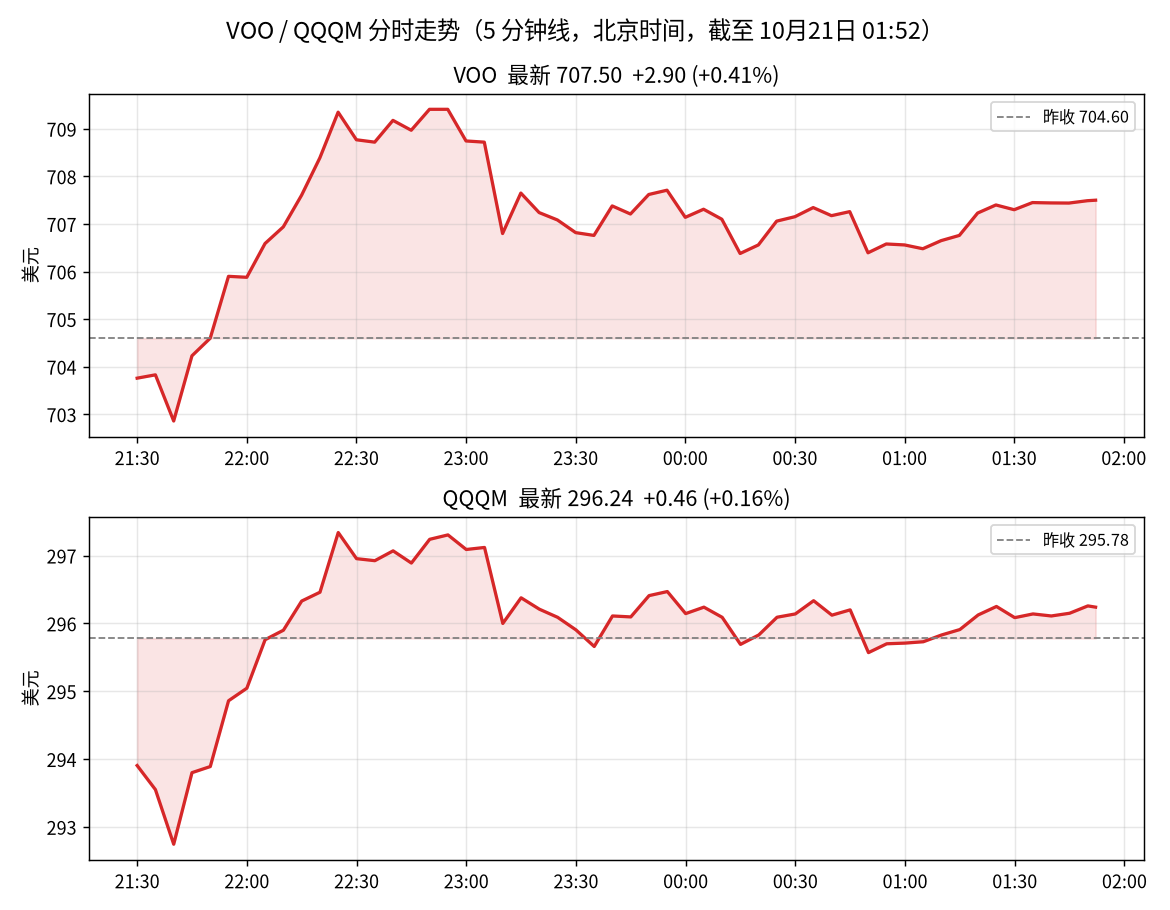
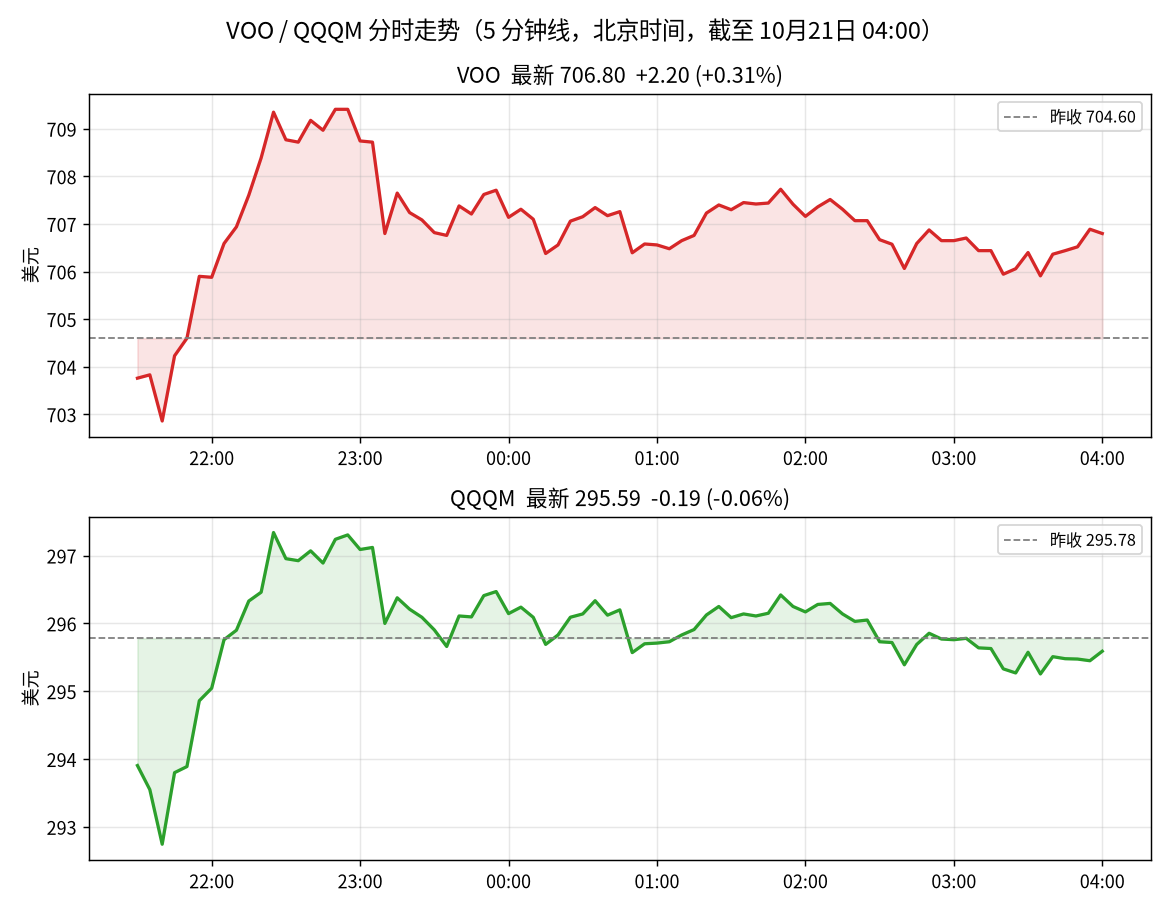
早报 2026-10-21

diff --git a/index.html b/index.html
@@ -5,49 +5,67 @@
 <link rel="stylesheet" href="style.css">
 </head><body>
 <header><a href="index.html">美股早报</a><nav><a href="index.html">最新</a><a href="archive.html">往期</a></nav></header>
-<main><p class="meta">最新一期：2026-10-21 · <a href="briefs/2026-10-21.html">固定链接</a></p><article class="card"><p><strong>美股早报（样版）· 北京时间 10月21日 01:52</strong></p>
-<p>美东 10月20日（周二）仍在交易中，以下“盘中”数据截至北京时间 01:52（罗素2000、VIX 截至 01:37），涨跌均对比 10月19日收盘。</p>
-<p><strong>大盘（盘中）</strong></p>
+<main><p class="meta">最新一期：2026-10-21 · <a href="briefs/2026-10-21.html">固定链接</a></p><article class="card"><p><strong>美股市场早报 · 2026年10月20日收盘</strong></p>
+<p>北京时间 2026年10月21日（周三）清晨。美东 10月20日（周二）正常交易、已收盘。以下为收盘数据（Yahoo Finance），非休市。美元指数、黄金期货仍显示盘中，改用各自最近收盘；WTI 连续合约刚换月，Yahoo 未给出可靠 last_close，油价另据公开报道标注。</p>
+<p><strong>大盘</strong></p>
 <ul>
-<li>标普500 7722.87，<span class="up">+0.42%</span></li>
-<li>纳斯达克100 29578.08，<span class="up">+0.17%</span></li>
-<li>道琼斯 52514.01，<span class="up">+1.05%</span>（<span class="up">+547.98 点</span>）</li>
-<li>罗素2000 2774.45，<span class="up">+1.69%</span></li>
-<li>VIX 恐慌指数 17.48，<span class="down">-5.21%</span></li>
-<li>10年期美债收益率 5.117%，<span class="down">-1.9 个基点</span></li>
-<li>美元指数 101.72，<span class="down">-0.25%</span></li>
-<li>黄金期货 4140.20 美元，<span class="down">-0.48%</span></li>
-<li>WTI 原油（12月合约）97.95 美元，<span class="down">-0.60%</span></li>
+<li>标普500：7712.57（<span class="up">+21.84</span>，<span class="up">+0.28%</span>）；近5个交易日 <span class="down">-1.19%</span></li>
+<li>纳斯达克100：29490.28（<span class="down">-39.07</span>，<span class="down">-0.13%</span>）；近5日 <span class="down">-3.53%</span></li>
+<li>道琼斯：52495.88（<span class="up">+529.85</span>，<span class="up">+1.02%</span>）；近5日 <span class="up">+1.60%</span></li>
+<li>罗素2000：2773.42（<span class="up">+45.12</span>，<span class="up">+1.65%</span>）；近5日 <span class="down">-0.36%</span></li>
+<li>VIX 恐慌指数：17.31（<span class="down">-1.13</span>，<span class="down">-6.13%</span>）</li>
+<li>10年期美债收益率：5.117%（<span class="down">-1.9 个基点</span>）</li>
+<li>美元指数：最近收盘（10月19日）101.98（<span class="up">+0.14%</span>）；截至早报生成时仍为盘中报价</li>
+<li>黄金期货：最近收盘（10月19日）4160.10 美元（<span class="down">-0.50%</span>）；截至早报生成时仍为盘中报价</li>
+<li>WTI 原油：连续合约换月，Yahoo 无可靠收盘对比；据 Reuters，12月合约结算约 97.82 美元（<span class="down">-0.72</span> 美元），布伦特结算约 108.79 美元（<span class="down">-0.69%</span>）</li>
 </ul>
-<p>上一交易日（10月19日）收盘：标普 <span class="up">+0.41%</span>，纳指100 <span class="up">+1.17%</span>，道指 <span class="down">-0.07%</span>。</p>
-<p><strong>七大科技股（盘中）</strong></p>
+<p><strong>七大科技股</strong></p>
 <ul>
-<li>最强：特斯拉 374.47，<span class="up">+1.74%</span></li>
-<li>最弱：Meta 690.20，<span class="down">-2.16%</span>（近 5 个交易日 <span class="down">-9.48%</span>）</li>
-<li>其他：亚马逊 <span class="up">+0.11%</span>，英伟达 <span class="up">+0.10%</span>，微软 <span class="down">-0.16%</span>，谷歌 <span class="down">-0.81%</span>，苹果 <span class="down">-0.91%</span></li>
+<li>最好：特斯拉 373.71（<span class="up">+5.65</span>，<span class="up">+1.54%</span>）</li>
+<li>最差：Meta 694.25（<span class="down">-11.19</span>，<span class="down">-1.59%</span>）；近5日 <span class="down">-8.95%</span></li>
+<li>其他：亚马逊 262.63（<span class="up">+0.07%</span>），英伟达 216.47（<span class="down">-0.29%</span>），微软 531.87（<span class="down">-0.31%</span>），苹果 339.50（<span class="down">-1.00%</span>），谷歌 340.28（<span class="down">-1.13%</span>）</li>
 </ul>
-<p><strong>板块（盘中）</strong></p>
+<p><strong>板块 ETF</strong></p>
 <ul>
-<li>领涨：医疗 XLV <span class="up">+2.47%</span>（近 5 日 <span class="up">+6.09%</span>）</li>
-<li>其次：金融 XLF <span class="up">+1.12%</span>，可选消费 XLY <span class="up">+0.87%</span></li>
-<li>偏弱：能源 XLE <span class="down">-0.07%</span>，工业 XLI <span class="down">-0.04%</span></li>
-<li>科技 XLK <span class="up">+0.09%</span>，半导体 SMH <span class="up">+0.21%</span>；但近 5 日 XLK <span class="down">-5.17%</span>、SMH <span class="down">-6.55%</span>，仍是上周回调的重灾区</li>
+<li>领涨：医疗 XLV 179.82（<span class="up">+2.37%</span>）；近5日 <span class="up">+5.99%</span></li>
+<li>其次：金融 XLF <span class="up">+1.20%</span>，可选消费 XLY <span class="up">+0.91%</span>，能源 XLE <span class="up">+0.25%</span>，工业 XLI <span class="up">+0.07%</span></li>
+<li>偏弱：科技 XLK <span class="down">-0.28%</span>，半导体 SMH <span class="down">-0.38%</span>（近5日 SMH <span class="down">-7.10%</span>、XLK <span class="down">-5.52%</span>，上周回调尚未收复）</li>
 </ul>
 <p><strong>VOO 与 QQQM</strong></p>
 <ul>
-<li>VOO：10月19日收 704.60（<span class="up">+0.43%</span>）；今天盘中 707.50，<span class="up">+0.41%</span>；近 5 个交易日 <span class="down">-1.08%</span></li>
-<li>QQQM：10月19日收 295.78（<span class="up">+1.20%</span>）；今天盘中 296.24，<span class="up">+0.16%</span>；近 5 个交易日 <span class="down">-3.24%</span></li>
-<li>两只都是低开后很快拉起，23 点前后到高点后小幅回落，分时图见附图。</li>
+<li>VOO：收盘 706.80（<span class="up">+2.20</span>，<span class="up">+0.31%</span>）；近5个交易日 <span class="down">-1.17%</span></li>
+<li>QQQM：收盘 295.59（<span class="down">-0.19</span>，<span class="down">-0.06%</span>）；近5个交易日 <span class="down">-3.45%</span></li>
+<li>分时（5分钟线）：两只低开后快速拉高，约北京时间 22:30–23:00 见高点后回落；VOO 全日多数时间站上昨收（704.60），QQQM 后半段围绕昨收（295.78）震荡并小幅收跌。附图见网页。</li>
 </ul>
 <p><strong>要闻</strong></p>
+<p><strong>1. 美联储与利率</strong></p>
 <ul>
-<li>医疗股创历史新高、油价回落，美股延续周一反弹；礼来涨约 4.7%，通用汽车因成本压力跌约 6.9%。<a href="https://www.investing.com/news/stock-market-news/nasdaq-futures-dip-as-oil-prices-climb-earnings-loom-4959413" target="_blank" rel="noopener">Reuters</a></li>
-<li>布伦特盘中触及 5 个月高点后回落：美伊外交有望取得进展，但胡塞武装袭击沙特设施、海湾船只遇袭仍在支撑风险溢价。<a href="https://www.cnbc.com/2026/10/20/oil-price-wti-brent-crude.html" target="_blank" rel="noopener">CNBC</a></li>
-<li>财报周：奈飞今天美股收盘后公布财报（北京时间周三清晨），Meta 和特斯拉周三（美东）公布。<a href="https://finance.yahoo.com/markets/live/stock-market-today-dow-rises-sp-500-nasdaq-climb-as-dip-buying-resumes-165236471.html" target="_blank" rel="noopener">Yahoo Finance</a></li>
+<li>Reuters 调查（10月16–20日）：100 位受访经济学家中 94 人预计美联储 10月27–28日会议维持利率在 3.75%–4.00%，且全部预计 12月8–9日会议加息。(<a href="https://www.investing.com/news/economy-news/federal-reserve-seen-skipping-oct-rate-hike-but-hiking-in-dec--reuters-poll-4960292" target="_blank" rel="noopener">Investing.com / Reuters</a>)</li>
+<li>10年期美债收益率收于约 5.12%，当日小幅下行，与油价回落后通胀预期略缓相符。(<a href="https://www.wsj.com/finance/stocks/u-s-stocks-mixed-as-strong-earnings-offset-ai-credit-fears-d55414c3" target="_blank" rel="noopener">WSJ</a>)</li>
+</ul>
+<p><strong>2. 宏观数据</strong></p>
+<ul>
+<li>10月20日无重磅全国性就业或 CPI 发布；BLS 日程当日为州级就业与失业（9月）。9月 CPI 已于 10月14日公布（同比 3.7%）。(<a href="https://www.bls.gov/schedule/2026/" target="_blank" rel="noopener">BLS 日程</a>)</li>
+<li>前瞻：本周关注 Meta、特斯拉等财报；下周关注美联储议息（10月27–28日）。10月21日白天有 BLS「周薪」季报等次要数据。</li>
+</ul>
+<p><strong>3. 财报</strong></p>
+<ul>
+<li>Equifax、Hasbro 等业绩超预期推升个股：据 AP，Equifax 收涨约 11.3%，Hasbro 收涨约 11.2%；3M 亦报喜收涨约 5.8%。(<a href="https://ca.finance.yahoo.com/news/asian-shares-mostly-decline-ai-032352204.html" target="_blank" rel="noopener">AP via Yahoo</a>)</li>
+<li>本周重头仍在前方：奈飞已于美东周二收盘后公布；Meta、特斯拉定于美东周三（北京时间周四清晨）收盘后发布。(<a href="https://www.cnbc.com/2026/10/18/meta-tesla-netflix-earnings-preview.html" target="_blank" rel="noopener">CNBC 前瞻</a>)</li>
+</ul>
+<p><strong>4. 地缘与大宗</strong></p>
+<ul>
+<li>油价自盘中高位回落：据 Reuters，布伦特结算 108.79 美元（<span class="down">-0.69%</span>），曾触及约 112；WTI 12月合约结算约 97.82 美元。市场消化伊朗总统与巴基斯坦军方会晤等斡旋消息，同时胡塞袭击与海湾航运风险仍在。(<a href="https://www.investing.com/news/commodities-news/oil-eases-as-markets-assess-potential-waiver-on-russian-energy-middle-east-supply-risks-4958607" target="_blank" rel="noopener">Reuters via Investing.com</a>)</li>
+<li>美伊外交进展传闻一度提振风险偏好，道指与罗素领涨；消息反复也令盘中波动加大。(<a href="https://www.wsj.com/finance/stocks/stocks-make-a-u-turn-on-hopes-of-u-s-iran-diplomacy-39fb739b" target="_blank" rel="noopener">WSJ</a>)</li>
+</ul>
+<p><strong>5. 市场情绪与日历</strong></p>
+<ul>
+<li>收盘分化：道指、罗素、医疗领涨，纳指100与大型科技偏弱；VIX 回落至 17.31，显示短期恐慌降温。AI 相关波动仍在（亚太侧韩国 AI 新股 Elice 上市首日大跌拖累情绪）。(<a href="https://apnews.com/article/wall-street-stocks-dow-nasdaq-0a5ea168499c6ae617c49e10bf48f9c6" target="_blank" rel="noopener">AP</a>)</li>
+<li>日历提醒：美东 10月21日 Meta / 特斯拉财报；10月27–28日美联储议息。无重大全国 CPI/非农于今日发布。</li>
 </ul>
 <p><strong>整体点评</strong></p>
-<p>今天盘中是价值和防御板块领涨：道指、罗素2000、医疗和金融涨幅明显大于纳指100，大型科技股基本持平，Meta 拖累最大。VIX 回落到 17.48，油价和美债收益率小幅走低，但科技和半导体的近 5 日跌幅仍未收复。周三 Meta、特斯拉的财报是接下来影响 QQQM 的关键事件。</p>
-<p>数据：Yahoo Finance（盘中价可能有约 15 分钟延迟）。</p></article>
-<div class="card"><img class="chart" src="charts/2026-10-21.png" alt="2026-10-21 VOO / QQQM 分时走势图" loading="lazy"></div><section class="card"><strong>最近几期</strong><ul class="archive"><li><a href="briefs/2026-10-21.html">2026-10-21</a> <span class="meta">美股早报（样版）· 北京时间 10月21日 01:52</span></li></ul><p><a href="archive.html">查看全部往期 →</a></p></section></main>
+<p>周二收盘呈「价值与防御强于成长」：道指与罗素明显强于纳指100，医疗、金融领涨板块，七巨头中仅特斯拉与亚马逊收红，Meta 拖累最大。油价自高位回落、VIX 下行与美债收益率略降，短期缓解了部分通胀与恐慌压力，但科技/半导体近5日跌幅仍深，且 Meta、特斯拉财报与下周议息仍是近端主线。</p>
+<p>数据来源：Yahoo Finance（收盘）；要闻链接见上文。生成时间：北京时间 2026-10-21 约 07:20。</p></article>
+<div class="card"><img class="chart" src="charts/2026-10-21.png" alt="2026-10-21 VOO / QQQM 分时走势图" loading="lazy"></div><section class="card"><strong>最近几期</strong><ul class="archive"><li><a href="briefs/2026-10-21.html">2026-10-21</a> <span class="meta">美股市场早报 · 2026年10月20日收盘</span></li></ul><p><a href="archive.html">查看全部往期 →</a></p></section></main>
 <footer>涨跌颜色：<span class="up">红涨</span> / <span class="down">绿跌</span>。数据来源 Yahoo Finance，盘中价可能有延迟。以上仅为市场信息整理，不构成投资建议。</footer>
 </body></html>

diff --git a/briefs/2026-10-21.html b/briefs/2026-10-21.html
@@ -1,53 +1,71 @@
 <!doctype html>
 <html lang="zh-CN"><head><meta charset="utf-8">
 <meta name="viewport" content="width=device-width,initial-scale=1">
-<title>美股早报（样版）· 北京时间 10月21日 01:52</title>
+<title>美股市场早报 · 2026年10月20日收盘</title>
 <link rel="stylesheet" href="../style.css">
 </head><body>
 <header><a href="../index.html">美股早报</a><nav><a href="../index.html">最新</a><a href="../archive.html">往期</a></nav></header>
-<main><article class="card"><p><strong>美股早报（样版）· 北京时间 10月21日 01:52</strong></p>
-<p>美东 10月20日（周二）仍在交易中，以下“盘中”数据截至北京时间 01:52（罗素2000、VIX 截至 01:37），涨跌均对比 10月19日收盘。</p>
-<p><strong>大盘（盘中）</strong></p>
+<main><article class="card"><p><strong>美股市场早报 · 2026年10月20日收盘</strong></p>
+<p>北京时间 2026年10月21日（周三）清晨。美东 10月20日（周二）正常交易、已收盘。以下为收盘数据（Yahoo Finance），非休市。美元指数、黄金期货仍显示盘中，改用各自最近收盘；WTI 连续合约刚换月，Yahoo 未给出可靠 last_close，油价另据公开报道标注。</p>
+<p><strong>大盘</strong></p>
 <ul>
-<li>标普500 7722.87，<span class="up">+0.42%</span></li>
-<li>纳斯达克100 29578.08，<span class="up">+0.17%</span></li>
-<li>道琼斯 52514.01，<span class="up">+1.05%</span>（<span class="up">+547.98 点</span>）</li>
-<li>罗素2000 2774.45，<span class="up">+1.69%</span></li>
-<li>VIX 恐慌指数 17.48，<span class="down">-5.21%</span></li>
-<li>10年期美债收益率 5.117%，<span class="down">-1.9 个基点</span></li>
-<li>美元指数 101.72，<span class="down">-0.25%</span></li>
-<li>黄金期货 4140.20 美元，<span class="down">-0.48%</span></li>
-<li>WTI 原油（12月合约）97.95 美元，<span class="down">-0.60%</span></li>
+<li>标普500：7712.57（<span class="up">+21.84</span>，<span class="up">+0.28%</span>）；近5个交易日 <span class="down">-1.19%</span></li>
+<li>纳斯达克100：29490.28（<span class="down">-39.07</span>，<span class="down">-0.13%</span>）；近5日 <span class="down">-3.53%</span></li>
+<li>道琼斯：52495.88（<span class="up">+529.85</span>，<span class="up">+1.02%</span>）；近5日 <span class="up">+1.60%</span></li>
+<li>罗素2000：2773.42（<span class="up">+45.12</span>，<span class="up">+1.65%</span>）；近5日 <span class="down">-0.36%</span></li>
+<li>VIX 恐慌指数：17.31（<span class="down">-1.13</span>，<span class="down">-6.13%</span>）</li>
+<li>10年期美债收益率：5.117%（<span class="down">-1.9 个基点</span>）</li>
+<li>美元指数：最近收盘（10月19日）101.98（<span class="up">+0.14%</span>）；截至早报生成时仍为盘中报价</li>
+<li>黄金期货：最近收盘（10月19日）4160.10 美元（<span class="down">-0.50%</span>）；截至早报生成时仍为盘中报价</li>
+<li>WTI 原油：连续合约换月，Yahoo 无可靠收盘对比；据 Reuters，12月合约结算约 97.82 美元（<span class="down">-0.72</span> 美元），布伦特结算约 108.79 美元（<span class="down">-0.69%</span>）</li>
 </ul>
-<p>上一交易日（10月19日）收盘：标普 <span class="up">+0.41%</span>，纳指100 <span class="up">+1.17%</span>，道指 <span class="down">-0.07%</span>。</p>
-<p><strong>七大科技股（盘中）</strong></p>
+<p><strong>七大科技股</strong></p>
 <ul>
-<li>最强：特斯拉 374.47，<span class="up">+1.74%</span></li>
-<li>最弱：Meta 690.20，<span class="down">-2.16%</span>（近 5 个交易日 <span class="down">-9.48%</span>）</li>
-<li>其他：亚马逊 <span class="up">+0.11%</span>，英伟达 <span class="up">+0.10%</span>，微软 <span class="down">-0.16%</span>，谷歌 <span class="down">-0.81%</span>，苹果 <span class="down">-0.91%</span></li>
+<li>最好：特斯拉 373.71（<span class="up">+5.65</span>，<span class="up">+1.54%</span>）</li>
+<li>最差：Meta 694.25（<span class="down">-11.19</span>，<span class="down">-1.59%</span>）；近5日 <span class="down">-8.95%</span></li>
+<li>其他：亚马逊 262.63（<span class="up">+0.07%</span>），英伟达 216.47（<span class="down">-0.29%</span>），微软 531.87（<span class="down">-0.31%</span>），苹果 339.50（<span class="down">-1.00%</span>），谷歌 340.28（<span class="down">-1.13%</span>）</li>
 </ul>
-<p><strong>板块（盘中）</strong></p>
+<p><strong>板块 ETF</strong></p>
 <ul>
-<li>领涨：医疗 XLV <span class="up">+2.47%</span>（近 5 日 <span class="up">+6.09%</span>）</li>
-<li>其次：金融 XLF <span class="up">+1.12%</span>，可选消费 XLY <span class="up">+0.87%</span></li>
-<li>偏弱：能源 XLE <span class="down">-0.07%</span>，工业 XLI <span class="down">-0.04%</span></li>
-<li>科技 XLK <span class="up">+0.09%</span>，半导体 SMH <span class="up">+0.21%</span>；但近 5 日 XLK <span class="down">-5.17%</span>、SMH <span class="down">-6.55%</span>，仍是上周回调的重灾区</li>
+<li>领涨：医疗 XLV 179.82（<span class="up">+2.37%</span>）；近5日 <span class="up">+5.99%</span></li>
+<li>其次：金融 XLF <span class="up">+1.20%</span>，可选消费 XLY <span class="up">+0.91%</span>，能源 XLE <span class="up">+0.25%</span>，工业 XLI <span class="up">+0.07%</span></li>
+<li>偏弱：科技 XLK <span class="down">-0.28%</span>，半导体 SMH <span class="down">-0.38%</span>（近5日 SMH <span class="down">-7.10%</span>、XLK <span class="down">-5.52%</span>，上周回调尚未收复）</li>
 </ul>
 <p><strong>VOO 与 QQQM</strong></p>
 <ul>
-<li>VOO：10月19日收 704.60（<span class="up">+0.43%</span>）；今天盘中 707.50，<span class="up">+0.41%</span>；近 5 个交易日 <span class="down">-1.08%</span></li>
-<li>QQQM：10月19日收 295.78（<span class="up">+1.20%</span>）；今天盘中 296.24，<span class="up">+0.16%</span>；近 5 个交易日 <span class="down">-3.24%</span></li>
-<li>两只都是低开后很快拉起，23 点前后到高点后小幅回落，分时图见附图。</li>
+<li>VOO：收盘 706.80（<span class="up">+2.20</span>，<span class="up">+0.31%</span>）；近5个交易日 <span class="down">-1.17%</span></li>
+<li>QQQM：收盘 295.59（<span class="down">-0.19</span>，<span class="down">-0.06%</span>）；近5个交易日 <span class="down">-3.45%</span></li>
+<li>分时（5分钟线）：两只低开后快速拉高，约北京时间 22:30–23:00 见高点后回落；VOO 全日多数时间站上昨收（704.60），QQQM 后半段围绕昨收（295.78）震荡并小幅收跌。附图见网页。</li>
 </ul>
 <p><strong>要闻</strong></p>
+<p><strong>1. 美联储与利率</strong></p>
 <ul>
-<li>医疗股创历史新高、油价回落，美股延续周一反弹；礼来涨约 4.7%，通用汽车因成本压力跌约 6.9%。<a href="https://www.investing.com/news/stock-market-news/nasdaq-futures-dip-as-oil-prices-climb-earnings-loom-4959413" target="_blank" rel="noopener">Reuters</a></li>
-<li>布伦特盘中触及 5 个月高点后回落：美伊外交有望取得进展，但胡塞武装袭击沙特设施、海湾船只遇袭仍在支撑风险溢价。<a href="https://www.cnbc.com/2026/10/20/oil-price-wti-brent-crude.html" target="_blank" rel="noopener">CNBC</a></li>
-<li>财报周：奈飞今天美股收盘后公布财报（北京时间周三清晨），Meta 和特斯拉周三（美东）公布。<a href="https://finance.yahoo.com/markets/live/stock-market-today-dow-rises-sp-500-nasdaq-climb-as-dip-buying-resumes-165236471.html" target="_blank" rel="noopener">Yahoo Finance</a></li>
+<li>Reuters 调查（10月16–20日）：100 位受访经济学家中 94 人预计美联储 10月27–28日会议维持利率在 3.75%–4.00%，且全部预计 12月8–9日会议加息。(<a href="https://www.investing.com/news/economy-news/federal-reserve-seen-skipping-oct-rate-hike-but-hiking-in-dec--reuters-poll-4960292" target="_blank" rel="noopener">Investing.com / Reuters</a>)</li>
+<li>10年期美债收益率收于约 5.12%，当日小幅下行，与油价回落后通胀预期略缓相符。(<a href="https://www.wsj.com/finance/stocks/u-s-stocks-mixed-as-strong-earnings-offset-ai-credit-fears-d55414c3" target="_blank" rel="noopener">WSJ</a>)</li>
+</ul>
+<p><strong>2. 宏观数据</strong></p>
+<ul>
+<li>10月20日无重磅全国性就业或 CPI 发布；BLS 日程当日为州级就业与失业（9月）。9月 CPI 已于 10月14日公布（同比 3.7%）。(<a href="https://www.bls.gov/schedule/2026/" target="_blank" rel="noopener">BLS 日程</a>)</li>
+<li>前瞻：本周关注 Meta、特斯拉等财报；下周关注美联储议息（10月27–28日）。10月21日白天有 BLS「周薪」季报等次要数据。</li>
+</ul>
+<p><strong>3. 财报</strong></p>
+<ul>
+<li>Equifax、Hasbro 等业绩超预期推升个股：据 AP，Equifax 收涨约 11.3%，Hasbro 收涨约 11.2%；3M 亦报喜收涨约 5.8%。(<a href="https://ca.finance.yahoo.com/news/asian-shares-mostly-decline-ai-032352204.html" target="_blank" rel="noopener">AP via Yahoo</a>)</li>
+<li>本周重头仍在前方：奈飞已于美东周二收盘后公布；Meta、特斯拉定于美东周三（北京时间周四清晨）收盘后发布。(<a href="https://www.cnbc.com/2026/10/18/meta-tesla-netflix-earnings-preview.html" target="_blank" rel="noopener">CNBC 前瞻</a>)</li>
+</ul>
+<p><strong>4. 地缘与大宗</strong></p>
+<ul>
+<li>油价自盘中高位回落：据 Reuters，布伦特结算 108.79 美元（<span class="down">-0.69%</span>），曾触及约 112；WTI 12月合约结算约 97.82 美元。市场消化伊朗总统与巴基斯坦军方会晤等斡旋消息，同时胡塞袭击与海湾航运风险仍在。(<a href="https://www.investing.com/news/commodities-news/oil-eases-as-markets-assess-potential-waiver-on-russian-energy-middle-east-supply-risks-4958607" target="_blank" rel="noopener">Reuters via Investing.com</a>)</li>
+<li>美伊外交进展传闻一度提振风险偏好，道指与罗素领涨；消息反复也令盘中波动加大。(<a href="https://www.wsj.com/finance/stocks/stocks-make-a-u-turn-on-hopes-of-u-s-iran-diplomacy-39fb739b" target="_blank" rel="noopener">WSJ</a>)</li>
+</ul>
+<p><strong>5. 市场情绪与日历</strong></p>
+<ul>
+<li>收盘分化：道指、罗素、医疗领涨，纳指100与大型科技偏弱；VIX 回落至 17.31，显示短期恐慌降温。AI 相关波动仍在（亚太侧韩国 AI 新股 Elice 上市首日大跌拖累情绪）。(<a href="https://apnews.com/article/wall-street-stocks-dow-nasdaq-0a5ea168499c6ae617c49e10bf48f9c6" target="_blank" rel="noopener">AP</a>)</li>
+<li>日历提醒：美东 10月21日 Meta / 特斯拉财报；10月27–28日美联储议息。无重大全国 CPI/非农于今日发布。</li>
 </ul>
 <p><strong>整体点评</strong></p>
-<p>今天盘中是价值和防御板块领涨：道指、罗素2000、医疗和金融涨幅明显大于纳指100，大型科技股基本持平，Meta 拖累最大。VIX 回落到 17.48，油价和美债收益率小幅走低，但科技和半导体的近 5 日跌幅仍未收复。周三 Meta、特斯拉的财报是接下来影响 QQQM 的关键事件。</p>
-<p>数据：Yahoo Finance（盘中价可能有约 15 分钟延迟）。</p></article>
+<p>周二收盘呈「价值与防御强于成长」：道指与罗素明显强于纳指100，医疗、金融领涨板块，七巨头中仅特斯拉与亚马逊收红，Meta 拖累最大。油价自高位回落、VIX 下行与美债收益率略降，短期缓解了部分通胀与恐慌压力，但科技/半导体近5日跌幅仍深，且 Meta、特斯拉财报与下周议息仍是近端主线。</p>
+<p>数据来源：Yahoo Finance（收盘）；要闻链接见上文。生成时间：北京时间 2026-10-21 约 07:20。</p></article>
 <div class="card"><img class="chart" src="../charts/2026-10-21.png" alt="2026-10-21 VOO / QQQM 分时走势图" loading="lazy"></div></main>
 <footer>涨跌颜色：<span class="up">红涨</span> / <span class="down">绿跌</span>。数据来源 Yahoo Finance，盘中价可能有延迟。以上仅为市场信息整理，不构成投资建议。</footer>
 </body></html>

diff --git a/archive.html b/archive.html
@@ -5,6 +5,6 @@
 <link rel="stylesheet" href="style.css">
 </head><body>
 <header><a href="index.html">美股早报</a><nav><a href="index.html">最新</a><a href="archive.html">往期</a></nav></header>
-<main><section class="card"><h2>往期早报</h2><ul class="archive"><li><a href="briefs/2026-10-21.html">2026-10-21</a><br><span class="meta">美股早报（样版）· 北京时间 10月21日 01:52</span></li></ul></section></main>
+<main><section class="card"><h2>往期早报</h2><ul class="archive"><li><a href="briefs/2026-10-21.html">2026-10-21</a><br><span class="meta">美股市场早报 · 2026年10月20日收盘</span></li></ul></section></main>
 <footer>涨跌颜色：<span class="up">红涨</span> / <span class="down">绿跌</span>。数据来源 Yahoo Finance，盘中价可能有延迟。以上仅为市场信息整理，不构成投资建议。</footer>
 </body></html>

diff --git a/briefs/2026-10-21.md b/briefs/2026-10-21.md
@@ -1,41 +1,56 @@
-**美股早报（样版）· 北京时间 10月21日 01:52**
-美东 10月20日（周二）仍在交易中，以下“盘中”数据截至北京时间 01:52（罗素2000、VIX 截至 01:37），涨跌均对比 10月19日收盘。
+**美股市场早报 · 2026年10月20日收盘**
 
-**大盘（盘中）**
-- 标普500 7722.87，+0.42%
-- 纳斯达克100 29578.08，+0.17%
-- 道琼斯 52514.01，+1.05%（+547.98 点）
-- 罗素2000 2774.45，+1.69%
-- VIX 恐慌指数 17.48，-5.21%
-- 10年期美债收益率 5.117%，-1.9 个基点
-- 美元指数 101.72，-0.25%
-- 黄金期货 4140.20 美元，-0.48%
-- WTI 原油（12月合约）97.95 美元，-0.60%
+北京时间 2026年10月21日（周三）清晨。美东 10月20日（周二）正常交易、已收盘。以下为收盘数据（Yahoo Finance），非休市。美元指数、黄金期货仍显示盘中，改用各自最近收盘；WTI 连续合约刚换月，Yahoo 未给出可靠 last_close，油价另据公开报道标注。
 
-上一交易日（10月19日）收盘：标普 +0.41%，纳指100 +1.17%，道指 -0.07%。
+**大盘**
+- 标普500：7712.57（+21.84，+0.28%）；近5个交易日 -1.19%
+- 纳斯达克100：29490.28（-39.07，-0.13%）；近5日 -3.53%
+- 道琼斯：52495.88（+529.85，+1.02%）；近5日 +1.60%
+- 罗素2000：2773.42（+45.12，+1.65%）；近5日 -0.36%
+- VIX 恐慌指数：17.31（-1.13，-6.13%）
+- 10年期美债收益率：5.117%（-1.9 个基点）
+- 美元指数：最近收盘（10月19日）101.98（+0.14%）；截至早报生成时仍为盘中报价
+- 黄金期货：最近收盘（10月19日）4160.10 美元（-0.50%）；截至早报生成时仍为盘中报价
+- WTI 原油：连续合约换月，Yahoo 无可靠收盘对比；据 Reuters，12月合约结算约 97.82 美元（-0.72 美元），布伦特结算约 108.79 美元（-0.69%）
 
-**七大科技股（盘中）**
-- 最强：特斯拉 374.47，+1.74%
-- 最弱：Meta 690.20，-2.16%（近 5 个交易日 -9.48%）
-- 其他：亚马逊 +0.11%，英伟达 +0.10%，微软 -0.16%，谷歌 -0.81%，苹果 -0.91%
+**七大科技股**
+- 最好：特斯拉 373.71（+5.65，+1.54%）
+- 最差：Meta 694.25（-11.19，-1.59%）；近5日 -8.95%
+- 其他：亚马逊 262.63（+0.07%），英伟达 216.47（-0.29%），微软 531.87（-0.31%），苹果 339.50（-1.00%），谷歌 340.28（-1.13%）
 
-**板块（盘中）**
-- 领涨：医疗 XLV +2.47%（近 5 日 +6.09%）
-- 其次：金融 XLF +1.12%，可选消费 XLY +0.87%
-- 偏弱：能源 XLE -0.07%，工业 XLI -0.04%
-- 科技 XLK +0.09%，半导体 SMH +0.21%；但近 5 日 XLK -5.17%、SMH -6.55%，仍是上周回调的重灾区
+**板块 ETF**
+- 领涨：医疗 XLV 179.82（+2.37%）；近5日 +5.99%
+- 其次：金融 XLF +1.20%，可选消费 XLY +0.91%，能源 XLE +0.25%，工业 XLI +0.07%
+- 偏弱：科技 XLK -0.28%，半导体 SMH -0.38%（近5日 SMH -7.10%、XLK -5.52%，上周回调尚未收复）
 
 **VOO 与 QQQM**
-- VOO：10月19日收 704.60（+0.43%）；今天盘中 707.50，+0.41%；近 5 个交易日 -1.08%
-- QQQM：10月19日收 295.78（+1.20%）；今天盘中 296.24，+0.16%；近 5 个交易日 -3.24%
-- 两只都是低开后很快拉起，23 点前后到高点后小幅回落，分时图见附图。
+- VOO：收盘 706.80（+2.20，+0.31%）；近5个交易日 -1.17%
+- QQQM：收盘 295.59（-0.19，-0.06%）；近5个交易日 -3.45%
+- 分时（5分钟线）：两只低开后快速拉高，约北京时间 22:30–23:00 见高点后回落；VOO 全日多数时间站上昨收（704.60），QQQM 后半段围绕昨收（295.78）震荡并小幅收跌。附图见网页。
 
 **要闻**
-- 医疗股创历史新高、油价回落，美股延续周一反弹；礼来涨约 4.7%，通用汽车因成本压力跌约 6.9%。[Reuters](https://www.investing.com/news/stock-market-news/nasdaq-futures-dip-as-oil-prices-climb-earnings-loom-4959413)
-- 布伦特盘中触及 5 个月高点后回落：美伊外交有望取得进展，但胡塞武装袭击沙特设施、海湾船只遇袭仍在支撑风险溢价。[CNBC](https://www.cnbc.com/2026/10/20/oil-price-wti-brent-crude.html)
-- 财报周：奈飞今天美股收盘后公布财报（北京时间周三清晨），Meta 和特斯拉周三（美东）公布。[Yahoo Finance](https://finance.yahoo.com/markets/live/stock-market-today-dow-rises-sp-500-nasdaq-climb-as-dip-buying-resumes-165236471.html)
+
+**1. 美联储与利率**
+- Reuters 调查（10月16–20日）：100 位受访经济学家中 94 人预计美联储 10月27–28日会议维持利率在 3.75%–4.00%，且全部预计 12月8–9日会议加息。([Investing.com / Reuters](https://www.investing.com/news/economy-news/federal-reserve-seen-skipping-oct-rate-hike-but-hiking-in-dec--reuters-poll-4960292))
+- 10年期美债收益率收于约 5.12%，当日小幅下行，与油价回落后通胀预期略缓相符。([WSJ](https://www.wsj.com/finance/stocks/u-s-stocks-mixed-as-strong-earnings-offset-ai-credit-fears-d55414c3))
+
+**2. 宏观数据**
+- 10月20日无重磅全国性就业或 CPI 发布；BLS 日程当日为州级就业与失业（9月）。9月 CPI 已于 10月14日公布（同比 3.7%）。([BLS 日程](https://www.bls.gov/schedule/2026/))
+- 前瞻：本周关注 Meta、特斯拉等财报；下周关注美联储议息（10月27–28日）。10月21日白天有 BLS「周薪」季报等次要数据。
+
+**3. 财报**
+- Equifax、Hasbro 等业绩超预期推升个股：据 AP，Equifax 收涨约 11.3%，Hasbro 收涨约 11.2%；3M 亦报喜收涨约 5.8%。([AP via Yahoo](https://ca.finance.yahoo.com/news/asian-shares-mostly-decline-ai-032352204.html))
+- 本周重头仍在前方：奈飞已于美东周二收盘后公布；Meta、特斯拉定于美东周三（北京时间周四清晨）收盘后发布。([CNBC 前瞻](https://www.cnbc.com/2026/10/18/meta-tesla-netflix-earnings-preview.html))
+
+**4. 地缘与大宗**
+- 油价自盘中高位回落：据 Reuters，布伦特结算 108.79 美元（-0.69%），曾触及约 112；WTI 12月合约结算约 97.82 美元。市场消化伊朗总统与巴基斯坦军方会晤等斡旋消息，同时胡塞袭击与海湾航运风险仍在。([Reuters via Investing.com](https://www.investing.com/news/commodities-news/oil-eases-as-markets-assess-potential-waiver-on-russian-energy-middle-east-supply-risks-4958607))
+- 美伊外交进展传闻一度提振风险偏好，道指与罗素领涨；消息反复也令盘中波动加大。([WSJ](https://www.wsj.com/finance/stocks/stocks-make-a-u-turn-on-hopes-of-u-s-iran-diplomacy-39fb739b))
+
+**5. 市场情绪与日历**
+- 收盘分化：道指、罗素、医疗领涨，纳指100与大型科技偏弱；VIX 回落至 17.31，显示短期恐慌降温。AI 相关波动仍在（亚太侧韩国 AI 新股 Elice 上市首日大跌拖累情绪）。([AP](https://apnews.com/article/wall-street-stocks-dow-nasdaq-0a5ea168499c6ae617c49e10bf48f9c6))
+- 日历提醒：美东 10月21日 Meta / 特斯拉财报；10月27–28日美联储议息。无重大全国 CPI/非农于今日发布。
 
 **整体点评**
-今天盘中是价值和防御板块领涨：道指、罗素2000、医疗和金融涨幅明显大于纳指100，大型科技股基本持平，Meta 拖累最大。VIX 回落到 17.48，油价和美债收益率小幅走低，但科技和半导体的近 5 日跌幅仍未收复。周三 Meta、特斯拉的财报是接下来影响 QQQM 的关键事件。
+周二收盘呈「价值与防御强于成长」：道指与罗素明显强于纳指100，医疗、金融领涨板块，七巨头中仅特斯拉与亚马逊收红，Meta 拖累最大。油价自高位回落、VIX 下行与美债收益率略降，短期缓解了部分通胀与恐慌压力，但科技/半导体近5日跌幅仍深，且 Meta、特斯拉财报与下周议息仍是近端主线。
 
-数据：Yahoo Finance（盘中价可能有约 15 分钟延迟）。
+数据来源：Yahoo Finance（收盘）；要闻链接见上文。生成时间：北京时间 2026-10-21 约 07:20。
